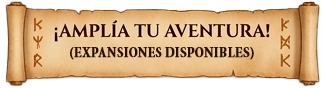
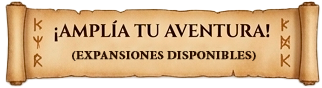
Updates

Changed region(s): [[0.2174, 0.5227, 0.8075, 0.6818]]

diff --git a/src/components/public/GameDetailModal.tsx b/src/components/public/GameDetailModal.tsx
@@ -3,6 +3,7 @@
 import { useState, useEffect } from "react";
 import { X, Users, Clock, Baby, MessageSquare, Check } from "lucide-react";
 import { GameWithComponents } from "@/types";
+import { ASSETS } from "@/lib/assets";
 
 interface GameDetailModalProps {
   game: GameWithComponents | null;
@@ -60,7 +61,7 @@ export default function GameDetailModal({ game, onClose }: GameDetailModalProps)
         <div className="px-4 sm:px-6 py-3 sm:py-4 wood-beam border-b-2 border-[#8c5828] flex items-center justify-between text-[#fef3c7] shrink-0">
           <div className="flex items-center gap-2.5">
             <div className="w-8 h-8 rounded-sm flex items-center justify-center p-0.5">
-              <img src="/Logo.png" alt="Logo" className="w-full h-full object-contain" />
+              <img src={ASSETS.logo} alt="Logo" className="w-full h-full object-contain" />
             </div>
             <span className="font-tavern text-xs uppercase bg-[#4a2612] text-[#fef08a] border border-[#a16207] px-2.5 py-0.5 font-bold tracking-wider rounded-sm">
               {game.category}
@@ -118,7 +119,7 @@ export default function GameDetailModal({ game, onClose }: GameDetailModalProps)
                 <div className="pt-3 border-t-2 border-dashed border-[#c8a774]">
                   <div className="flex justify-center mb-3">
                     {/* eslint-disable-next-line @next/next/no-img-element */}
-                    <img src="/amplia.png" alt="Amplía tu experiencia" className="h-16 sm:h-20 object-contain drop-shadow-[0_8px_12px_rgba(0,0,0,0.6)]" />
+                    <img src={ASSETS.amplia} alt="Amplía tu experiencia" className="h-16 sm:h-20 object-contain drop-shadow-[0_8px_12px_rgba(0,0,0,0.6)]" />
                   </div>
                   <div className="flex flex-col gap-2.5">
                     {game.expansions.map((exp) => {

diff --git a/src/app/page.tsx b/src/app/page.tsx
@@ -7,6 +7,7 @@ import GameDetailModal from "@/components/public/GameDetailModal";
 import { GameWithComponents } from "@/types";
 import { getGames, getCategories } from "@/lib/actions/games";
 import { Search, Filter, RefreshCw, Compass, Scroll, Shield, Sparkles } from "lucide-react";
+import { ASSETS } from "@/lib/assets";
 
 export const dynamic = 'force-dynamic';
 export default function CatalogPage() {
@@ -90,7 +91,7 @@ export default function CatalogPage() {
           {/* Watermark Compass (Now Logo) */}
           <div className="absolute -right-8 -bottom-8 opacity-10 pointer-events-none">
             {/* eslint-disable-next-line @next/next/no-img-element */}
-            <img src="/Logo.png" alt="Logo" className="w-72 h-72 opacity-50 grayscale" />
+            <img src={ASSETS.logo} alt="Logo" className="w-72 h-72 opacity-50 grayscale" />
           </div>
 
           <div className="relative z-10 flex flex-col md:flex-row md:items-center justify-between gap-6">
@@ -269,7 +270,7 @@ export default function CatalogPage() {
       <footer className="wood-beam border-t-4 border-[#8c5828] mt-16 py-8 text-center text-xs font-serif text-[#d6b080]">
         <div className="max-w-7xl mx-auto px-4 sm:px-6 flex flex-col sm:flex-row items-center justify-between gap-3">
           <div className="flex items-center gap-2 font-tavern text-sm text-[#fffdfa] font-bold">
-            <img src="/Logo.png" alt="Logo" className="w-5 h-5 opacity-90" />
+            <img src={ASSETS.logo} alt="Logo" className="w-5 h-5 opacity-90" />
             <span>LA TABERNA DEL EXPLORADOR</span>
           </div>
           <span className="text-xs text-[#e2b17b] font-serif">

diff --git a/src/app/admin/layout.tsx b/src/app/admin/layout.tsx
@@ -17,6 +17,7 @@ import {
   Scroll,
 } from "lucide-react";
 import { useState } from "react";
+import { ASSETS } from "@/lib/assets";
 
 const NAV_ITEMS = [
   { href: "/admin", label: "Dashboard", icon: LayoutDashboard, exact: true },
@@ -42,7 +43,7 @@ export default function AdminLayout({
       <div className="md:hidden border-b border-[#dfcfb2] bg-[#24130a] px-4 h-14 flex items-center justify-between text-[#fef3c7]">
         <div className="flex items-center gap-2">
           <div className="w-7 h-7 flex items-center justify-center rounded-sm">
-            <img src="/Logo.png" alt="Logo" className="w-6 h-6 object-contain" />
+            <img src={ASSETS.logo} alt="Logo" className="w-6 h-6 object-contain" />
           </div>
           <span className="font-tavern text-xs font-bold uppercase tracking-wider text-[#fef3c7]">
             GREMIO // PANEL DE GESTIÓN
@@ -68,7 +69,7 @@ export default function AdminLayout({
           <div className="p-5 border-b border-[#3d2215] bg-[#180d07]">
             <div className="flex items-center gap-2.5">
               <div className="w-9 h-9 flex items-center justify-center rounded-sm">
-                <img src="/Logo.png" alt="Logo" className="w-8 h-8 object-contain opacity-90" />
+                <img src={ASSETS.logo} alt="Logo" className="w-8 h-8 object-contain opacity-90" />
               </div>
               <div>
                 <h2 className="font-tavern text-xs font-bold uppercase tracking-wider text-[#fef3c7]">

diff --git a/src/components/public/GameCard.tsx b/src/components/public/GameCard.tsx
@@ -3,6 +3,7 @@
 import { useState, useEffect } from "react";
 import { Users, Clock, Baby } from "lucide-react";
 import { GameWithComponents } from "@/types";
+import { ASSETS } from "@/lib/assets";
 
 interface GameCardProps {
   game: GameWithComponents & { image2?: string | null };
@@ -47,7 +48,7 @@ export default function GameCard({ game, onSelect }: GameCardProps) {
         {/* The ficha PNG frame on top (z-10) */}
         {/* eslint-disable-next-line @next/next/no-img-element */}
         <img
-          src="/ficha.png"
+          src={ASSETS.ficha}
           alt=""
           aria-hidden="true"
           className="absolute inset-0 w-full h-full object-fill pointer-events-none select-none z-10"
@@ -57,7 +58,7 @@ export default function GameCard({ game, onSelect }: GameCardProps) {
         {((game.expansions && game.expansions.length > 0) || game.hasExpansions || (game._count?.expansions ?? 0) > 0) && (
           <div className="absolute z-30 pointer-events-none" style={{ top: "-1%", right: "30%", width: "35%" }}>
             <img
-              src="/disponible.png"
+              src={ASSETS.disponible}
               alt="Expansiones disponibles"
               className="w-full h-auto drop-shadow-[0_8px_12px_rgba(0,0,0,0.7)] group-hover:drop-shadow-[0_10px_16px_rgba(0,0,0,0.85)] transition-all duration-300 group-hover:scale-105"
             />

diff --git a/src/components/public/Navbar.tsx b/src/components/public/Navbar.tsx
@@ -1,6 +1,6 @@
 import Link from "next/link";
-import Image from "next/image";
 import { Flame } from "lucide-react";
+import { ASSETS } from "@/lib/assets";
 
 export default function Navbar() {
   return (
@@ -9,13 +9,12 @@ export default function Navbar() {
         {/* Brand Banner */}
         <Link href="/" className="flex items-center gap-3 group">
           {/* Logo image */}
-          <div className="relative w-12 h-12 sm:w-14 sm:h-14 shrink-0 drop-shadow-[0_2px_6px_rgba(0,0,0,0.7)] group-hover:scale-105 transition-transform duration-300">
-            <Image
-              src="/Logo.png"
+          <div className="relative w-12 h-12 sm:w-14 sm:h-14 shrink-0 drop-shadow-[0_2px_6px_rgba(0,0,0,0.7)] group-hover:scale-105 transition-transform duration-300 flex items-center justify-center">
+            {/* eslint-disable-next-line @next/next/no-img-element */}
+            <img
+              src={ASSETS.logo}
               alt="Logo La Taberna del Explorador"
-              fill
-              className="object-contain"
-              priority
+              className="w-full h-full object-contain"
             />
           </div>
 

diff --git a/src/components/public/TavernParallaxBackground.tsx b/src/components/public/TavernParallaxBackground.tsx
@@ -1,6 +1,7 @@
 "use client";
 
 import { useEffect, useState } from "react";
+import { ASSETS } from "@/lib/assets";
 
 export default function TavernParallaxBackground() {
   const [offsetY, setOffsetY] = useState(0);
@@ -30,7 +31,7 @@ export default function TavernParallaxBackground() {
       <div
         className="absolute inset-0 w-full h-full"
         style={{
-          backgroundImage: "url('/tavern-wall.jpg')",
+          backgroundImage: `url('${ASSETS.tavernWall}')`,
           backgroundRepeat: "repeat-y",
           backgroundSize: "100% auto",
           backgroundPosition: `center -${offsetY}px`,

diff --git a/src/lib/assets.ts b/src/lib/assets.ts
@@ -1,0 +1,13 @@
+/**
+ * Registro centralizado de imágenes estáticas de la carpeta /public.
+ * Permite control de versiones (cache-busting) para que cuando modifiques
+ * un archivo de imagen, los navegadores y Next.js carguen la nueva versión
+ * de forma inmediata sin mostrar la versión vieja en caché.
+ */
+export const ASSETS = {
+  logo: "/Logo.png?v=1",
+  ficha: "/ficha.png?v=1",
+  disponible: "/disponible.png?v=2",
+  amplia: "/amplia.png?v=1",
+  tavernWall: "/tavern-wall.jpg?v=1",
+} as const;
